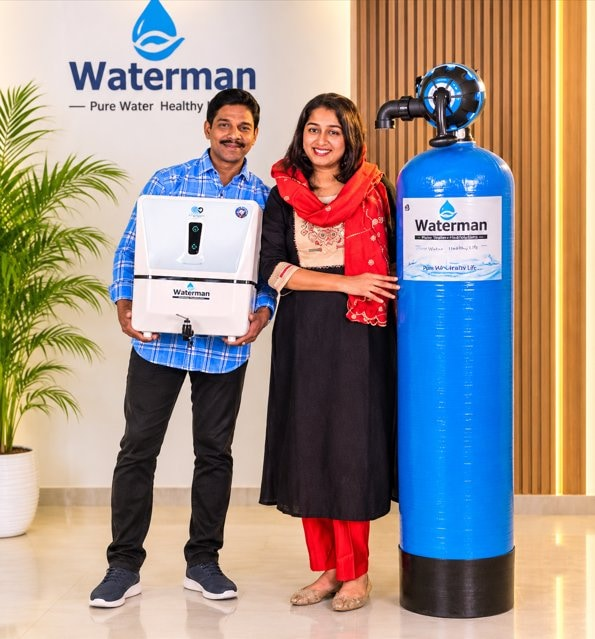
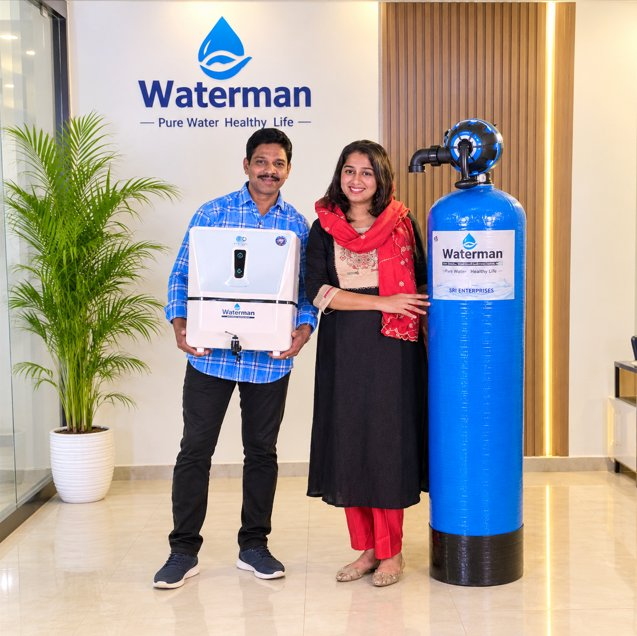
feat: apply high-resolution Waterman purifier showcase image to Hero Slide 1 with cache busting

diff --git a/components/HeroCarousel.tsx b/components/HeroCarousel.tsx
@@ -304,11 +304,13 @@ export default function HeroCarousel({ onOpenQuote }: HeroCarouselProps) {
                           </div>
                         )}
 
-                        <div className="relative h-60 sm:h-80 md:h-96 w-full rounded-2xl overflow-hidden bg-navy-900/80 flex items-center justify-center">
+                        <div className="relative h-64 sm:h-80 md:h-96 w-full rounded-2xl overflow-hidden bg-navy-900/80 flex items-center justify-center">
                           <img
                             src={slide.image}
                             alt={slide.headline}
-                            className="object-cover w-full h-full transform group-hover:scale-105 transition-transform duration-700"
+                            className={`w-full h-full transform group-hover:scale-105 transition-transform duration-700 ${
+                              slide.id === 1 ? "object-cover object-top" : "object-cover"
+                            }`}
                             draggable={false}
                           />
                         </div>

diff --git a/data/siteData.ts b/data/siteData.ts
@@ -97,7 +97,7 @@ export const HERO_SLIDES: HeroSlide[] = [
     primaryCtaLink: "/products?category=purifiers",
     secondaryCtaText: "Get a Free Quote",
     secondaryCtaLink: "#quote",
-    image: "/images/hero-water-purifier.jpg",
+    image: "/images/hero-water-purifier-waterman.jpg",
     taglineSecondary: "Multi-stage RO + UV + UF + Alkaline Filtration",
   },
   {
